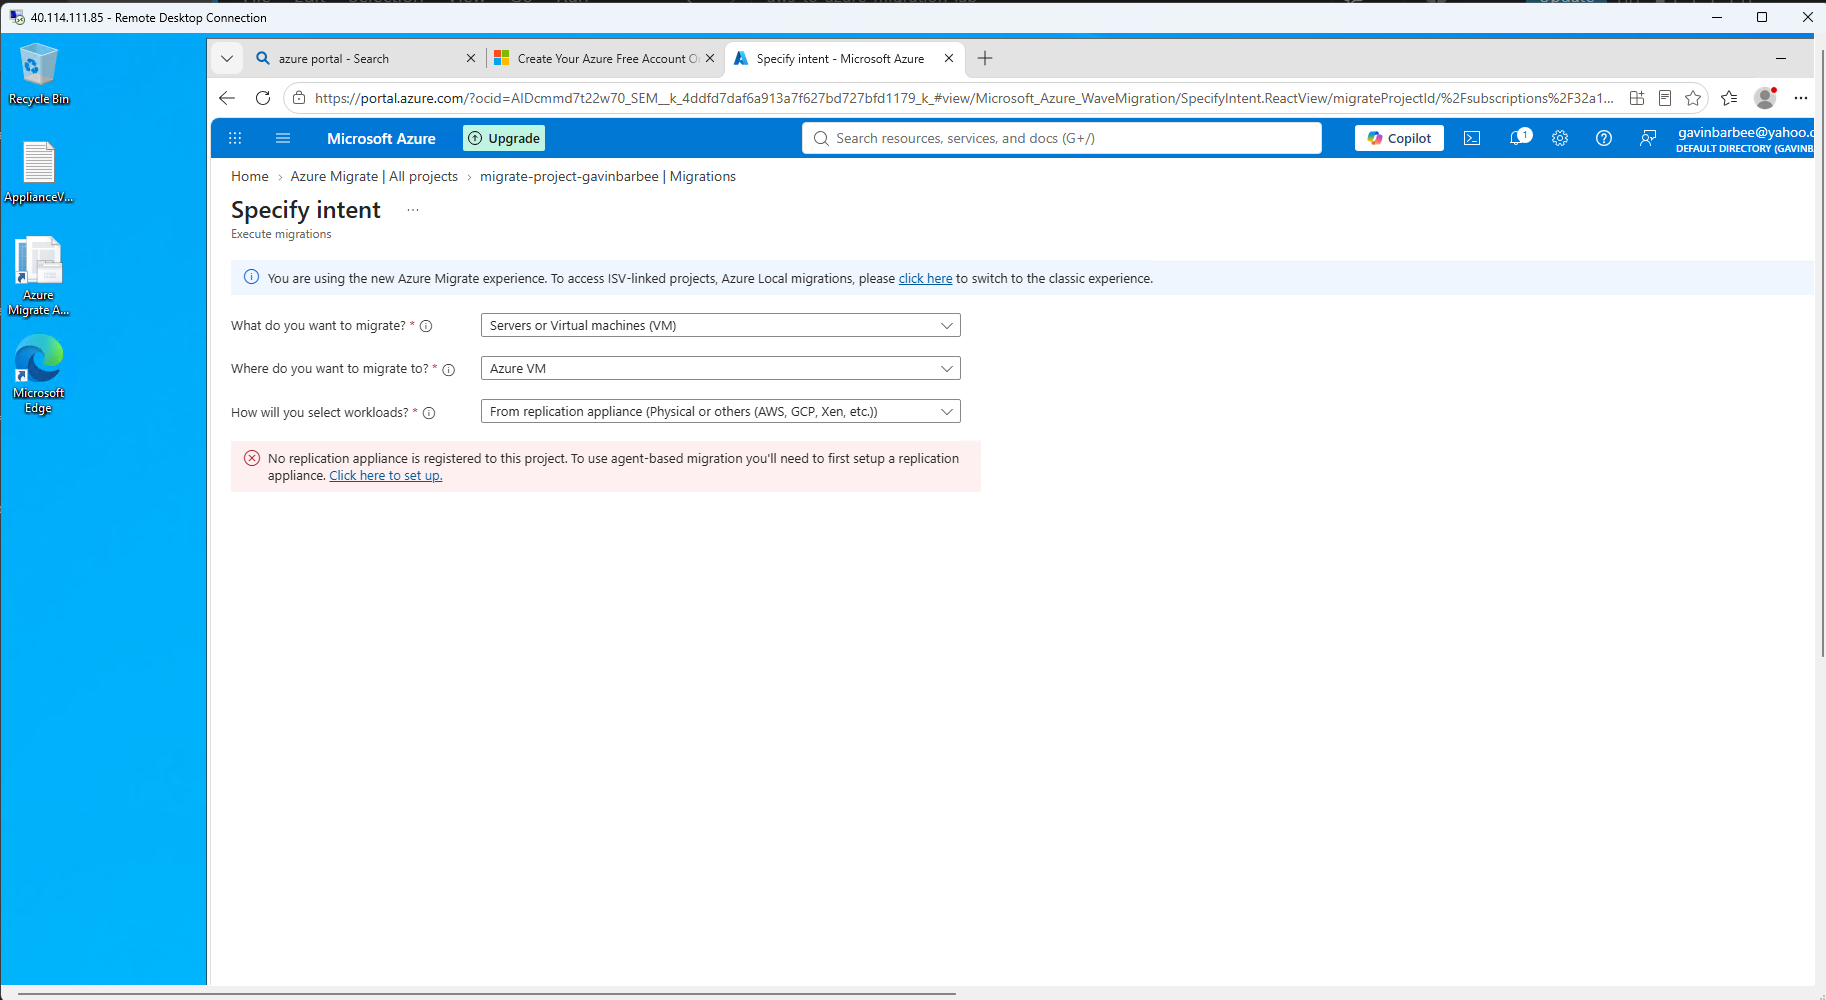
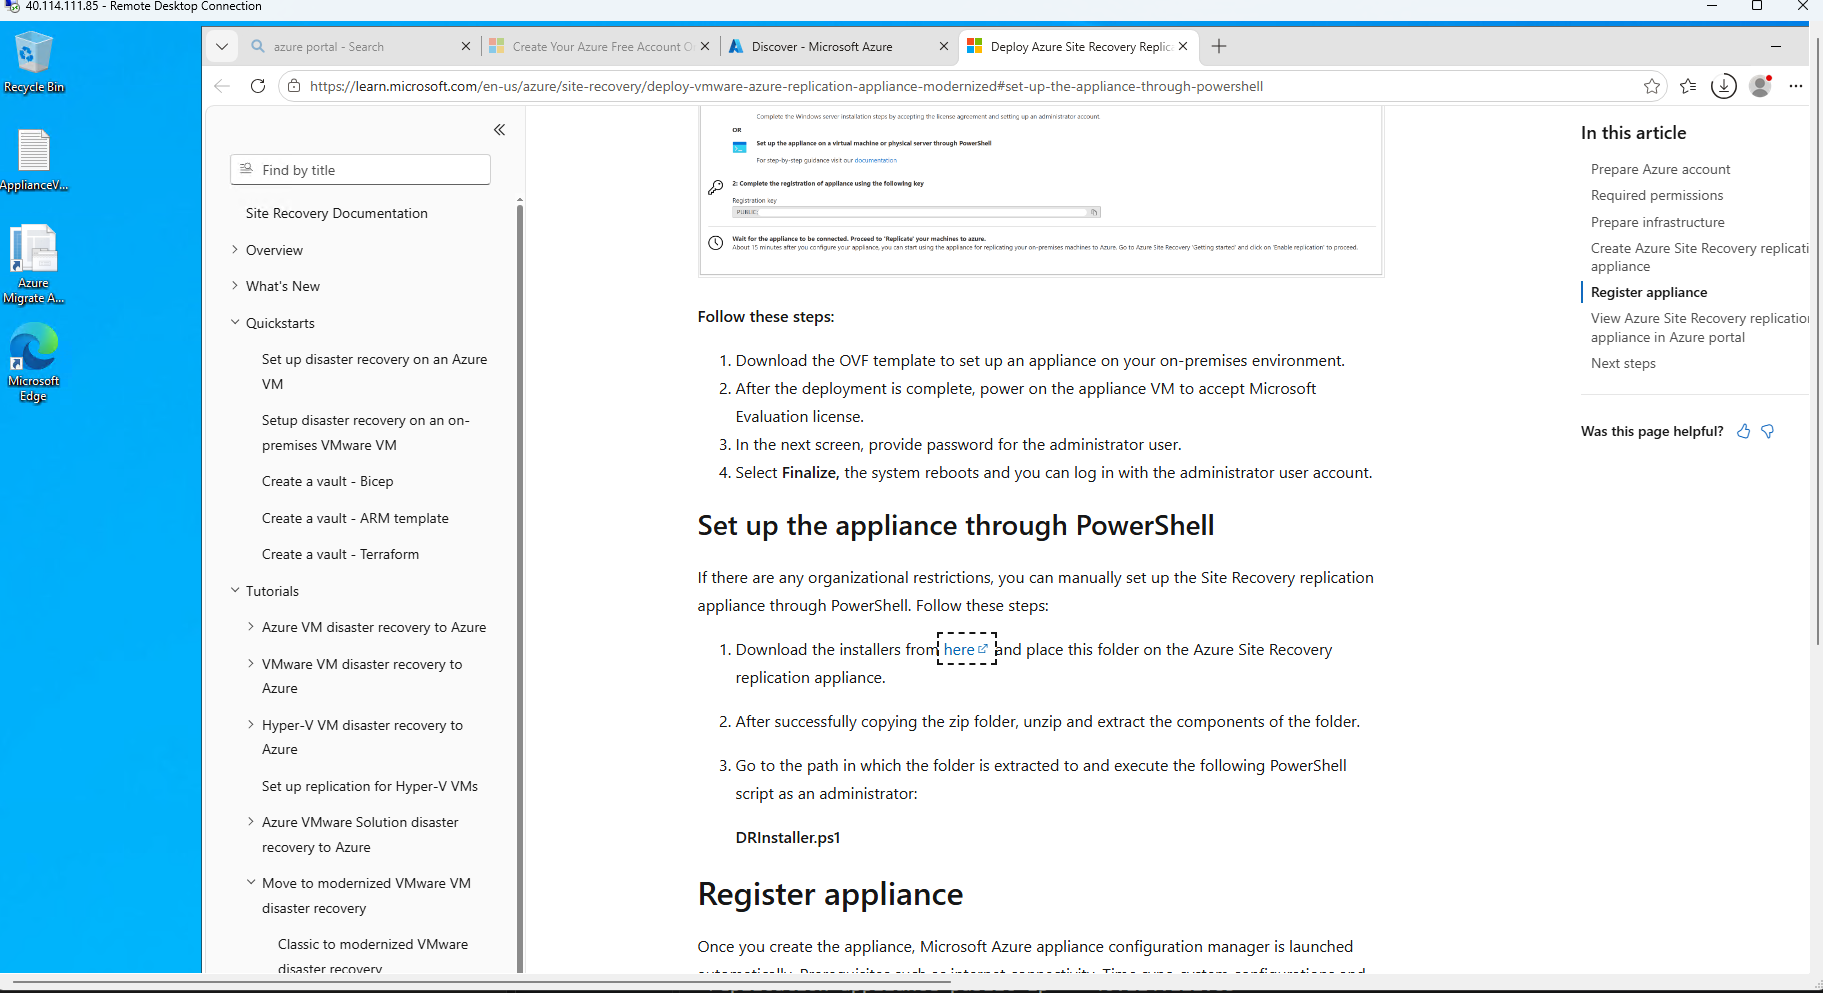
Fix mismapped screenshots and add specify-intent troubleshooting image

diff --git a/README.md b/README.md
@@ -573,6 +573,8 @@ Grouped by category — this is the real, complete list of what this lab actuall
 | After registering a second appliance, the portal shows the same "add credentials and discovery source" screen as the first (discovery) appliance, with no clear "replication" option | I'd originally planned around an older two-appliance UI flow (`AzureMigrateInstaller.ps1` for discovery, a distinct `DRInstaller.ps1` download for replication, each with its own dedicated setup screen). The current Azure Migrate portal has reorganized this, and it's easy to end up re-running the *discovery* installer on what was meant to be the *replication* VM. | Use **Execute → Migrations → Start execution → From replication appliance - Physical or other** in the current portal, which leads to a distinct "Step 1: Create an appliance" flow with its own `DRInstaller.ps1` download — this is the actual current path to the replication-specific installer, confirmed against [Microsoft's current documentation](https://learn.microsoft.com/en-us/azure/site-recovery/deploy-vmware-azure-replication-appliance-modernized). |
 | Project key registration screen shows *"No replication appliance is registered to this project"* even after generating a key | The classic UI's linear appliance flow and the modernized UI's "Execute" flow are two different systems that don't always cross-reference cleanly | Click through the "Click here to set up" link rather than assuming the earlier-generated key/appliance covers this — it starts a fresh, correct setup flow for this specific appliance role. |
 
+![26-specify-intent-no-appliance](screenshots/26-specify-intent-no-appliance.png)
+
 ![07-microsoft-docs-research](screenshots/07-microsoft-docs-research.png)
 *Verifying the current process directly against Microsoft's docs rather than continuing to guess against a UI that had visibly changed.*
 
